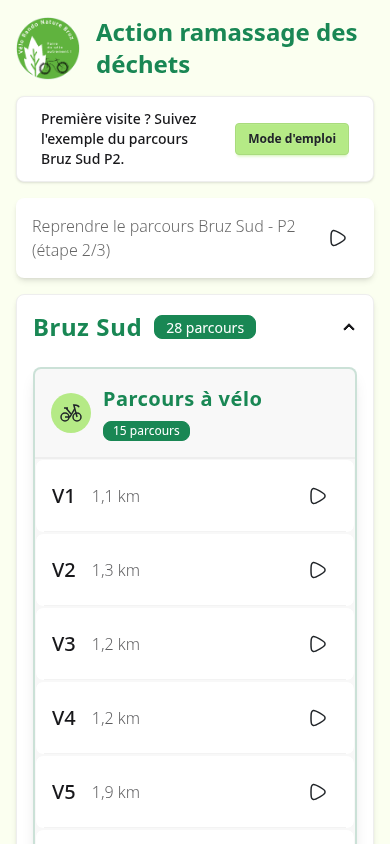
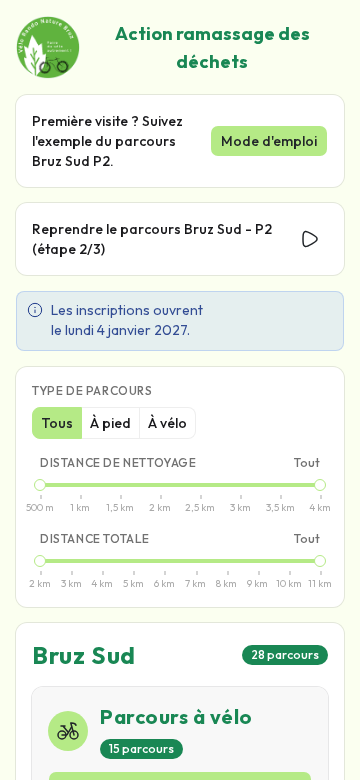
docs(clean): regénérer les screenshots du mode d'emploi en mobile 360×780
Régénère les 9 screenshots du mode d'emploi (/manual) après l'évolution de
l'UI, capturés en mode mobile (viewport 360×780) contre un serveur en mode
production (next build && next start), avec Chromium uniquement.

- Ajoute scripts/capture-manual.sh (orchestration : build, serveur prod,
  playwright chromium, arrêt du serveur)
- Ajoute scripts/capture-manual.spec.ts (spec Playwright, hors e2e/ pour
  ne pas être exécuté par bun run e2e)
- registrationOpen: false pour les screens 1-7, true pour les screens 8-9
- Mise à jour du README avec la section de capture des screenshots

diff --git a/apps/clean/scripts/capture-manual.spec.ts b/apps/clean/scripts/capture-manual.spec.ts
@@ -1,0 +1,206 @@
+import { test } from '@playwright/test';
+
+/**
+ * Régénère tous les screenshots du mode d'emploi (/manual) en mode mobile
+ * (viewport 360×780). Jamais de `fullPage` : on capture uniquement la zone
+ * visible dans le viewport.
+ *
+ * Conçu pour être lancé contre un serveur en mode production
+ * (next build && next start), pas contre le dev server.
+ *
+ * Les screenshots sont écrits dans public/manual/.
+ *
+ * Inscription Open / Closed :
+ * - registrationOpen = false pour les screens 1 à 7 (pas de bouton « S'inscrire » sur l'accueil)
+ * - registrationOpen = true pour les screens 8 et 9 (modal d'inscription visible)
+ *
+ * Usage:
+ *   bun run build                      # une fois
+ *   PORT=4200 bunx next start -p 4200  # dans un terminal
+ *   bunx playwright test e2e/capture-manual.spec.ts --project=chromium
+ */
+
[1 lines of base64/hex data omitted]
+
+const EDITION = {
+  actionDate: '2027-02-14',
+  actionEndTime: '12:00',
+  actionStartTime: '09:00',
+  inscriptionsOpenDate: '2027-01-04',
+  year: 2027,
+};
+
+/** Crée le mock d'inscriptions avec un registrationOpen donné. */
+function inscriptionsMock(registrationOpen: boolean): unknown {
+  return {
+    edition: EDITION,
+    registrationOpen,
+    inscriptions: [],
+  };
+}
+
+/** Attendre que les cartes Leaflet aient le temps de se dessiner (tuiles async). */
+async function waitForMaps(page: any, ms = 1500): Promise<void> {
+  await page.waitForTimeout(ms);
+}
+
+test.describe('Capture manual screenshots (mobile)', () => {
+  test.use({ viewport: { width: 360, height: 780 } });
+
+  test('captures all 9 manual screenshots', async ({ page, context }) => {
+    test.setTimeout(120000);
+
+    // Mock initial : inscriptions FERMÉES (registrationOpen: false).
+    // Pas de bouton « S'inscrire » sur l'accueil pour les screens 1 à 7.
+    await context.route('**/api/inscriptions', async (route) => {
+      if (route.request().method() === 'GET') {
+        await route.fulfill({
+          status: 200,
+          contentType: 'application/json',
+          body: JSON.stringify(inscriptionsMock(false)),
+        });
+      } else if (route.request().method() === 'POST') {
+        await route.fulfill({
+          status: 201,
+          contentType: 'application/json',
+          body: JSON.stringify({ status: 'created' }),
+        });
+      }
+    });
+
+    // ── 01-accueil ── (vue mobile, zone visible uniquement)
+    await page.goto('/');
+    await page.waitForLoadState('networkidle');
+    await waitForMaps(page);
+    await page.screenshot({ path: `${SCREENSHOT_DIR}/01-accueil.png` });
+
+    // ── 02-choisir-p2 ── (juste l'item de la ligne P2, pas toute la section)
+    await page.locator('text=Bruz Sud').first().scrollIntoViewIfNeeded();
+    await page.waitForTimeout(500);
+    await page
+      .locator('[data-testid="tour-row"]')
+      .filter({ hasText: 'P2' })
+      .first()
+      .screenshot({ path: `${SCREENSHOT_DIR}/02-choisir-p2.png` });
+
+    // ── 03-etape-debut ──
+    await page.goto('/tour/bruz-sud/P2');
+    await page.waitForLoadState('networkidle');
+    await waitForMaps(page);
+    await page.screenshot({ path: `${SCREENSHOT_DIR}/03-etape-debut.png` });
+
+    // ── 04-etape-nettoyage ── (clic Suivant → étape 1)
+    await page.getByRole('button', { name: 'Suivant' }).click();
+    await waitForMaps(page);
+    await page.screenshot({ path: `${SCREENSHOT_DIR}/04-etape-nettoyage.png` });
+
+    // ── 05-etape-fin ── (clic Suivant → étape 2)
+    await page.getByRole('button', { name: 'Suivant' }).click();
+    await waitForMaps(page);
+    await page.screenshot({ path: `${SCREENSHOT_DIR}/05-etape-fin.png` });
+
+    // ── 06-menu ── (Menu drawer ouvert)
+    await page.getByRole('button', { name: 'Menu' }).click();
+    await page.waitForTimeout(800);
+    await page.screenshot({ path: `${SCREENSHOT_DIR}/06-menu.png` });
+
+    // ── 07-reprendre ── (tour en cours dans localStorage, retour à l'accueil)
+    await page.evaluate(() => {
+      localStorage.setItem(
+        'vrnb_tour',
+        JSON.stringify({ tourId: 'P2', step: 1, zoneId: 'bruz-sud' }),
+      );
+    });
+    await page.goto('/');
+    await page.waitForLoadState('networkidle');
+    await page.waitForTimeout(1500);
+    await page.screenshot({ path: `${SCREENSHOT_DIR}/07-reprendre.png` });
+
+    // ── Passer les inscriptions en OUVERTES (registrationOpen: true)
+    // Avant les screens 8 et 9 : le bouton « S'inscrire » apparaît sur l'accueil.
+    await page.unroute('**/api/inscriptions');
+    await context.route('**/api/inscriptions', async (route) => {
+      if (route.request().method() === 'GET') {
+        await route.fulfill({
+          status: 200,
+          contentType: 'application/json',
+          body: JSON.stringify(inscriptionsMock(true)),
+        });
+      } else if (route.request().method() === 'POST') {
+        await route.fulfill({
+          status: 201,
+          contentType: 'application/json',
+          body: JSON.stringify({ status: 'created' }),
+        });
+      }
+    });
+
+    // ── 08-inscription-binome ── (modal d'inscription pour P2, fenêtre ouverte)
+    await page.goto('/');
+    await page.waitForLoadState('networkidle');
+    await page.waitForTimeout(1500);
+    await page
+      .getByRole('button', { name: "S'inscrire en binôme pour le parcours P2" })
+      .click();
+    await page.waitForTimeout(800);
+    await page
+      .locator('#register_modal_P2')
+      .screenshot({ path: `${SCREENSHOT_DIR}/08-inscription-binome.png` });
+
+    // ── 09-confirmation-inscription ── (remplir + soumettre → confirmation)
+    // Les inputs sont des composants React contrôlés : on force leur activation
+    // (ils peuvent être disabled tant que le statut d'inscriptions n'est pas
+    // chargé), on remplit avec fill({ force: true }), puis on notifie React via
+    // les événements DOM pour qu'il re-calcule complete.
+    await page.evaluate(() => {
+      const ids = [
+        'register-first-name-1',
+        'register-last-name-1',
+        'register-first-name-2',
+        'register-last-name-2',
+      ];
+      for (const id of ids) {
+        const input = document.getElementById(id) as HTMLInputElement | null;
+        if (input) input.disabled = false;
+      }
+      const checkbox = document.getElementById('register-engaged') as HTMLInputElement | null;
+      if (checkbox) checkbox.disabled = false;
+      const btn = Array.from(document.querySelectorAll('button')).find(
+        (b) => b.textContent?.includes('Inscrire mon binôme')
+      ) as HTMLButtonElement | null;
+      if (btn) btn.disabled = false;
+    });
+    await page.locator('#register-first-name-1').fill('Jean', { force: true });
+    await page.locator('#register-last-name-1').fill('Dupont', { force: true });
+    await page.locator('#register-first-name-2').fill('Marie', { force: true });
+    await page.locator('#register-last-name-2').fill('Martin', { force: true });
+    // Le Checkbox de shadcn rend un input caché : cliquer sur le label associé.
+    await page.locator('label[for="register-engaged"]').click();
+    // Notifier React des changements pour qu'il re-calcule complete.
+    await page.evaluate(() => {
+      const ids = [
+        'register-first-name-1',
+        'register-last-name-1',
+        'register-first-name-2',
+        'register-last-name-2',
+      ];
+      for (const id of ids) {
+        const input = document.getElementById(id) as HTMLInputElement | null;
+        if (input) {
+          input.dispatchEvent(new Event('input', { bubbles: true }));
+          input.dispatchEvent(new Event('change', { bubbles: true }));
+        }
+      }
+      const checkbox = document.getElementById('register-engaged') as HTMLInputElement | null;
+      if (checkbox) checkbox.dispatchEvent(new Event('change', { bubbles: true }));
+    });
+    await page.waitForTimeout(500);
+    await page.getByRole('button', { name: 'Inscrire mon binôme' }).click();
+    // Attendre que le modal bascule sur l'état de confirmation.
+    await page.locator('text=Votre binôme est inscrit pour ce parcours.').waitFor({ timeout: 10000 });
+    await page.waitForTimeout(500);
+    await page
+      .locator('#register_modal_P2')
+      .screenshot({ path: `${SCREENSHOT_DIR}/09-confirmation-inscription.png` });
+  });
+});

diff --git a/apps/clean/README.md b/apps/clean/README.md
@@ -72,6 +72,24 @@ Les tests E2E utilisent Playwright. Ils démarrent automatiquement le serveur de
 bun run e2e
 ```
 
+#### Capturer les screenshots du mode d'emploi
+
+Les 9 screenshots du mode d'emploi (`/manual`) sont stockés dans `public/manual/` et référencés par `app/manual/page.tsx`. Ils sont capturés en mode **mobile (360×780)**, contre un serveur en **mode production** (`next build && next start`), avec Chromium uniquement.
+
+Script : [`scripts/capture-manual.sh`](./scripts/capture-manual.sh)
+
+```sh
+./scripts/capture-manual.sh
+```
+
+Ce script :
+1. Construit l'application en production (`next build`)
+2. Lance le serveur Next.js en production sur le port 4200
+3. Lance le spec Playwright `scripts/capture-manual.spec.ts` (Chromium uniquement — **ce spec n'est PAS dans `e2e/`, donc il n'est pas exécuté par `bun run e2e`**)
+4. Écrit les screenshots dans `public/manual/`
+
+Le spec mock l'API `/api/inscriptions` : `registrationOpen = false` pour les screens 1 à 7 (pas de bouton « S'inscrire »), puis `registrationOpen = true` pour les screens 8 et 9 (modal d'inscription et confirmation).
+
 ## Structure principale
 
 ```
